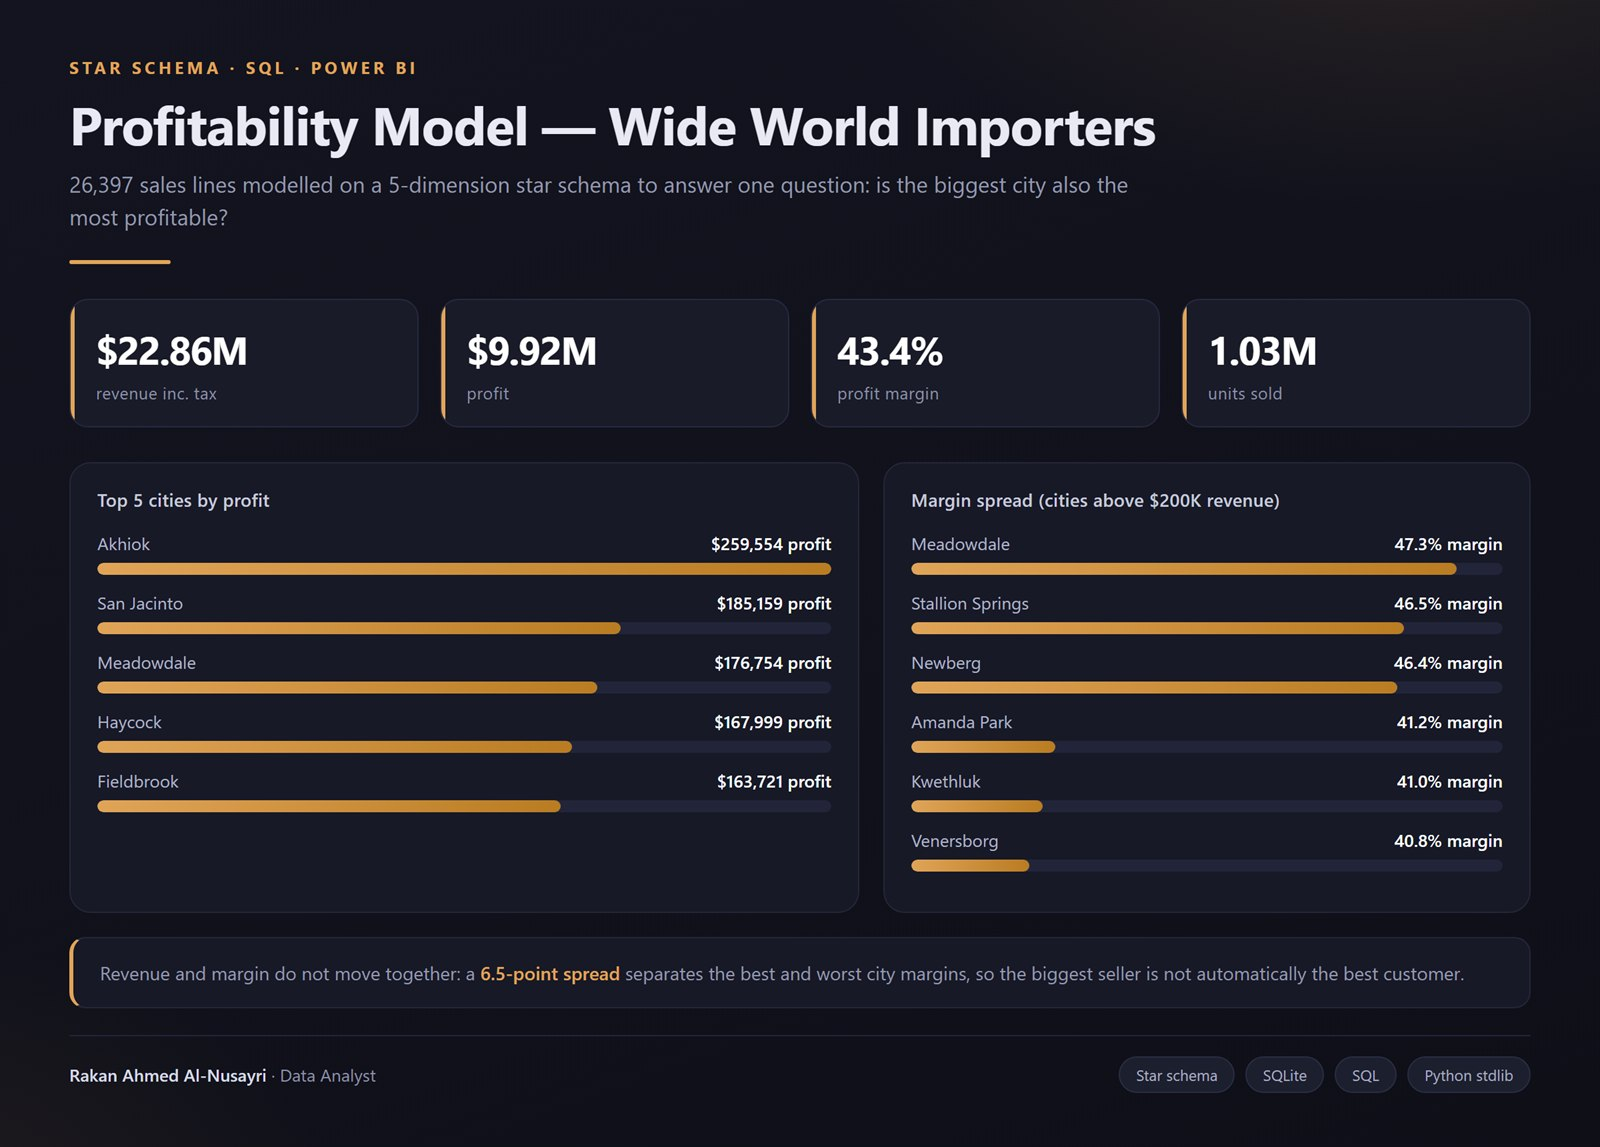
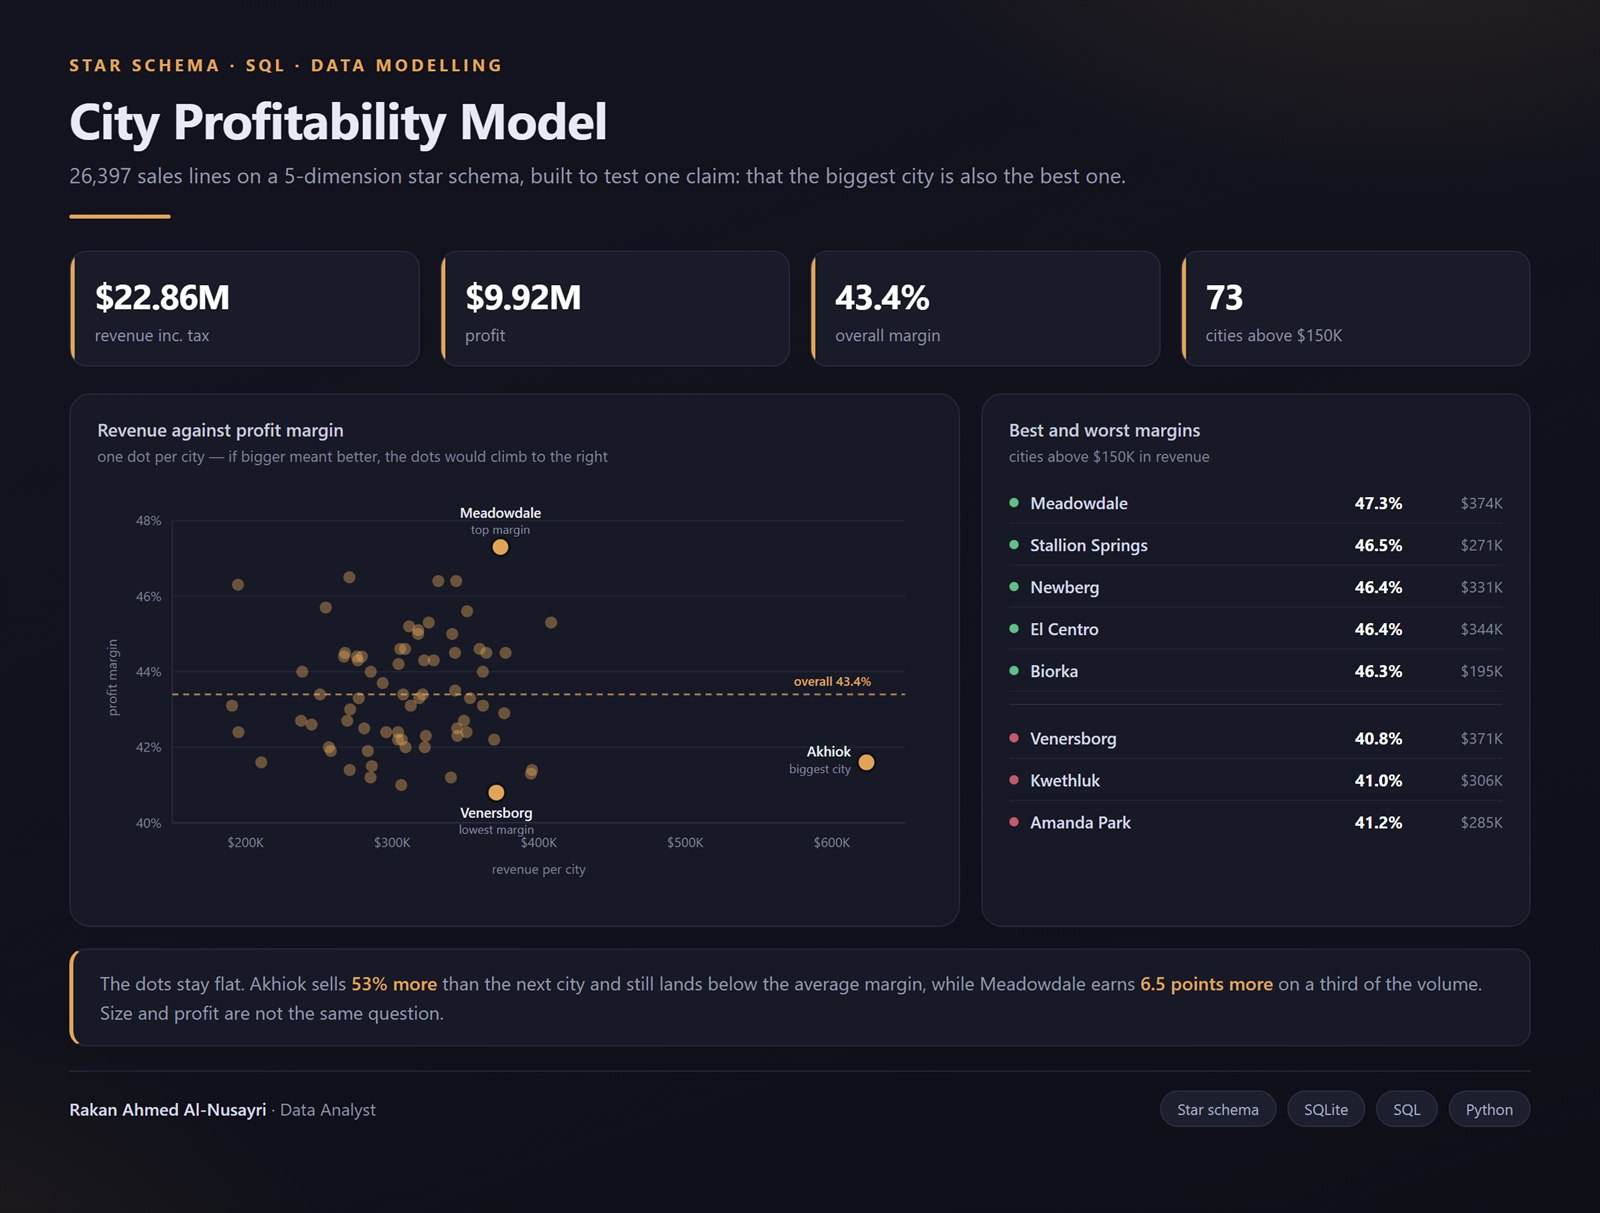
Rewrite README and rebuild the preview chart

diff --git a/README.md b/README.md
@@ -1,52 +1,66 @@
-# Wide World Importers — Profitability Analysis
-
-تحليل ربحية على نموذج نجمي — 26,397 سطر مبيعات و5 جداول أبعاد.
+# City Profitability Model
 
 ![preview](preview.jpg)
 
-**The question:** We know which cities sell the most. But do the biggest
-sellers actually make the most *profit* — or are we chasing revenue that
-costs us margin?
+A sales dataset modelled properly — one fact table, five dimensions — so I could
+test a claim that sounds obvious and turns out not to be: that the city selling
+the most is the city worth the most.
 
-**What I did:**
-- Modelled the data as a proper **star schema**: one fact table (`FactSale`,
-  26,397 rows) joined to 5 dimensions — City, Customer, Date, StockItem, Employee
-- Loaded it into SQLite with a Python ETL script (`backend/analyze.py`)
-- Wrote SQL to compare **revenue rank vs. margin rank** per city, which is
-  where the real answer lives
+## What I found
 
-**What I found:**
-| Metric | Value |
+| | |
 |---|---|
 | Sales lines | 26,397 |
 | Revenue (inc. tax) | $22.86M |
 | Profit | $9.92M |
-| Overall profit margin | 43.4% |
-| Units sold | 1,028,670 |
+| Overall margin | 43.4% |
+| Units | 1,028,670 |
 
-The headline: **revenue rank ≠ margin rank.** Meadowdale is only the 3rd
-biggest city by profit, but it has the *best* margin at **47.3%**. Meanwhile
-Venersborg does comparable revenue ($371K vs $374K) at just **40.8%** margin —
-a 6.5-point gap on nearly identical sales volume. That gap is where the money
-is, and it's invisible if you only rank cities by total sales.
+Akhiok is the biggest city by a distance — $624K in revenue, 53% ahead of the
+next one. Its margin is 41.6%, below the company average.
 
-**Tools:** SQL (star-schema joins, aggregation), Python (stdlib `csv`/`sqlite3`),
-Power BI (data modelling)
+Meadowdale sells a third of that and earns 47.3%. Across the 73 cities above
+$150K, the gap between best and worst margin is 6.5 points, and it has no
+relationship to size — plot revenue against margin and the dots sit flat.
 
-## Run it yourself
+So "our biggest city" and "our best city" are two different lists. If sales
+effort follows revenue alone, it follows the wrong one.
+
+## The model
+
+```
+FactSale (26,397 rows)
+   |- DimCity        city, state, country, territory
+   |- DimCustomer
+   |- DimDate
+   |- DimStockItem
+   |- DimEmployee
+```
+
+A star schema: measurements in the middle, descriptions around it. It keeps the
+joins shallow and means a question like "profit by territory by month" is one
+query instead of a chain of them.
+
+## Run it
 
 ```bash
 python backend/analyze.py
 ```
 
-No dependencies — pure Python standard library.
+Builds the SQLite database from the CSVs and prints the totals, the top cities
+by profit, and the margin spread. Standard library only.
 
 ## Files
 
 ```
-data/            FactSale.csv + 5 dimension tables (City, Customer, Date, StockItem, Employee)
-backend/analyze.py   builds the SQLite model and prints the analysis above
+data/FactSale.csv    the fact table
+data/Dim*.csv        the five dimension tables
+backend/analyze.py   builds the database and runs the queries
 ```
 
+## Tools
+
+SQL, SQLite, Python, dimensional modelling
+
 ---
-Rakan Ahmed Al-Nusayri · rakanalnsyry8@gmail.com
+Rakan Ahmed Al-Nusayri — [github.com/RaKaN-DaTa](https://github.com/RaKaN-DaTa)
